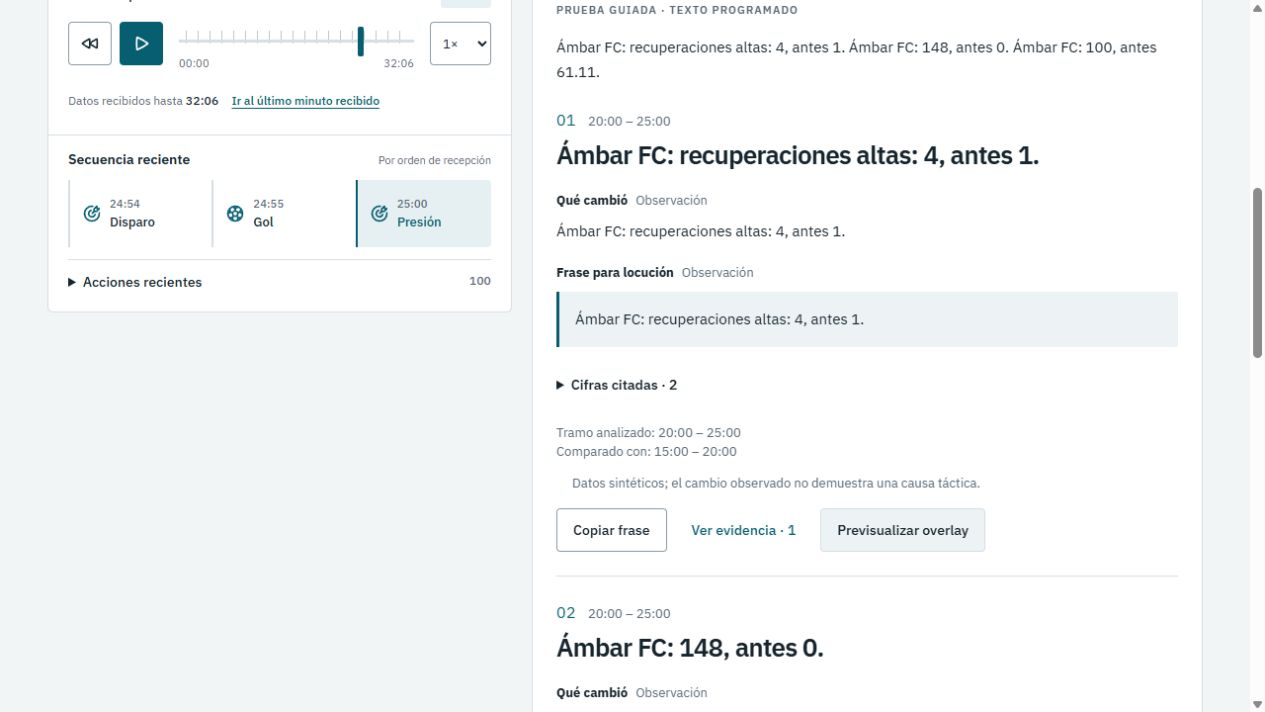
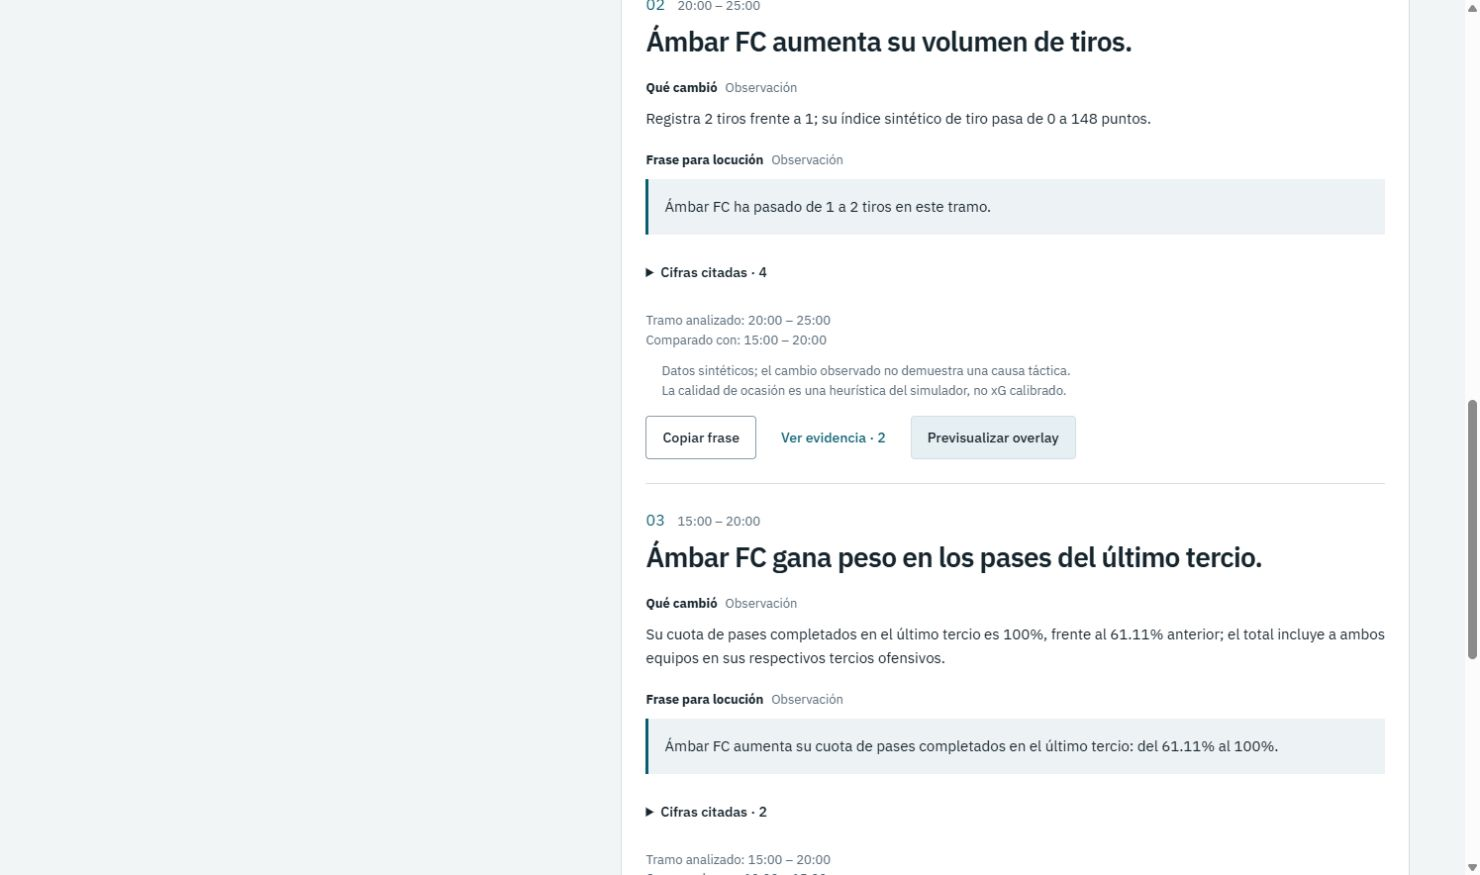
docs: record reviewed editorial copy and updated preview

diff --git a/docs/superpowers/plans/2026-10-24-commentator-copy.md b/docs/superpowers/plans/2026-10-24-commentator-copy.md
@@ -9,9 +9,9 @@
 
 ## Integrated task: useful editorial cards
 
-- [ ] RED tests: bilingual real scripted pipeline yields distinct main fields; shot narratives lead with shot counts, quality numbers carry synthetic-point labels, territorial percentages identify attacking-third passes; canonical references and140-codepoint overlays preserved. Invalid numerical wording and exact repeated main fields are rejected. Professional UI avoids replaying the complete locution aggregate above cards, while retaining fallback summaries.
-- [ ] GREEN: rewrite bilingual test writer per pattern; improve Foundry writer/reviewer instructions; deterministic narrow publication checks; no ungrounded causality or invention. Unit helper and demo share readable drafts, remain explicitly scripted.
-- [ ] Verify backend/frontend suites and real HTTP/SQLite browser flows; inspect updated preview and refresh captures. Attempt bounded existing-deployment professional Foundry samples without changing resources/budgets; report actual results separately from scripted tests.
-- [ ] One independent review of this change; material fixes get RED/GREEN in one pass. Update documentation/captures, commit and push to existing PR6; no merge.
+- [x] RED tests: bilingual real scripted pipeline yields distinct main fields; shot narratives lead with shot counts, quality numbers carry synthetic-point labels, territorial percentages identify attacking-third passes; canonical references and140-codepoint overlays preserved. Invalid numerical wording and exact repeated main fields are rejected. Professional UI avoids replaying the complete locution aggregate above cards, while retaining fallback summaries.
+- [x] GREEN: rewrite bilingual test writer per pattern; improve Foundry writer/reviewer instructions; deterministic narrow publication checks; no ungrounded causality or invention. Unit helper and demo share readable drafts, remain explicitly scripted.
+- [x] Verify backend/frontend suites and real HTTP/SQLite browser flows; inspect updated preview and refresh captures. Attempt bounded existing-deployment professional Foundry samples without changing resources/budgets; report actual results separately from scripted tests.
+- [x] One independent review of this change; material fixes get RED/GREEN in one pass. Update documentation/captures, commit and push to existing PR6; no merge.
 
 Examples of intended function: a shot headline names increased shooting; explanation states counts/comparison and labels any synthetic index; commentary is a speakable count comparison; overlay is concise. Territorial copy explicitly measures completed attacking-third passes across the teams, not possession or threat. High-recovery copy keeps the word high and explains the offensive-third definition. All observed claims remain observations; usefulness does not justify invented tactical causes.

diff --git a/docs/commentator-validation.md b/docs/commentator-validation.md
@@ -43,3 +43,7 @@ The UI was inspected in the in-app browser with its explicit scripted provenance
 One fresh reviewer examined `049c99d..6e7cdc1`, including cancellation, role isolation, receipt exports, references, Unicode limits, failures, provenance, accessibility markup and supplied desktop/320px captures. No actionable findings or deferred minors. The reviewer independently ran64/64 unit tests and `git diff --check`; browser/build evidence above was produced by the implementer. No second review or fix loop was needed.
 
 Decisions and costs: changing audience preserves the historical minute (latest-head needs an explicit click); export helpers require a view/time receipt instead of an ID alone (callers need the extra captured context); audience selection stays in the shared Viewer (audience state remains coupled to playback); existing approved tokens/browser inspection replace the exhausted Better Design service (no fresh MCP audit). Review boundaries remain explicit: live Foundry prose, professional usefulness and cloud deployment need their own evaluation before claims of production readiness. Arbitrary malicious responses from a compromised backend are outside this trusted API review; that threat would require separate hardening.
+
+## Copy follow-up independent review
+
+A fresh reviewer examined the follow-up delta `9b8357f..83ae2f5`: metric definitions, typed support, scripted templates, production validation, Foundry instructions, UI rendering, docs and updated desktop capture. No actionable Critical, Important or Minor findings. The reviewer independently passed14 editorial tests and the delta whitespace check; the full269-backend/65-frontend/22-browser results above were run by the implementer. No further live requests were made. Review conclusions exclude live prose/latency quality, professional user research, deployment and previously reviewed behavior outside this delta. The recorded real-probe fallbacks remain unresolved, not quality successes.
